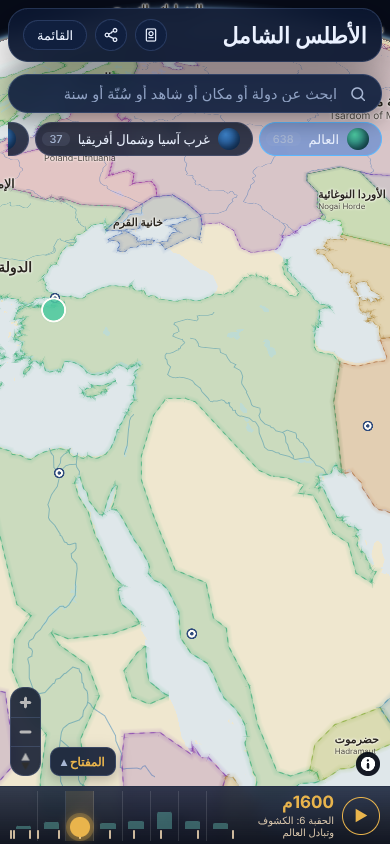
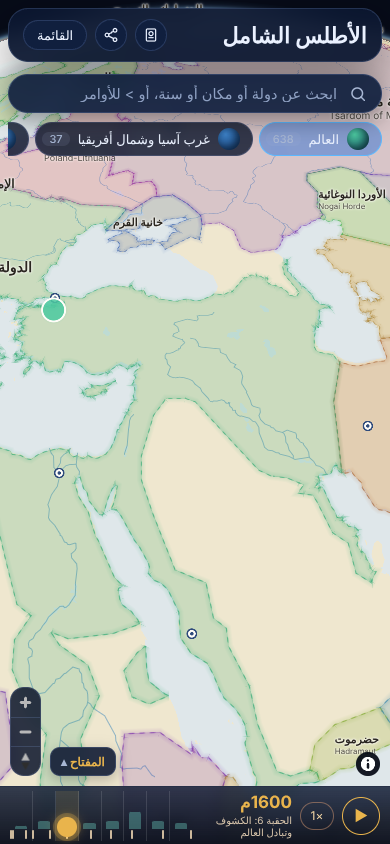
تلميح بحث أقصر على الجوال، وتحديث اللقطات المرجعية
التلميح الطويل كان يُقطع في منتصفه على الجوال، فاختُصر وفيه الأوامر. واللقطات المرجعية حُدّثت للتغيير البصري المقصود (التلميح، وزرّ سرعة التشغيل، وأسماء ظهرت بعد الجلب).

Claude-Session: https://claude.ai/code/session_01EKgcrpAVTTmkELDxDHoHAK

Changed region(s): [[0.0615, 0.9242, 0.8615, 1.0], [0.1538, 0.0924, 0.4308, 0.1232]]

diff --git a/web/explore.js b/web/explore.js
@@ -243,6 +243,8 @@ function highlight(text, q) {
 }
 
 const qEl = document.getElementById("q");
+// على الجوال خانة البحث ضيقة فيُقطع التلميح الطويل في منتصفه، فيُختصر وفيه الأوامر
+if (isNarrow()) qEl.placeholder = "ابحث عن دولة أو مكان أو سنة، أو > للأوامر";
 const qRes = document.getElementById("q-results");
 let qItems = [];
 let qSel = -1;
